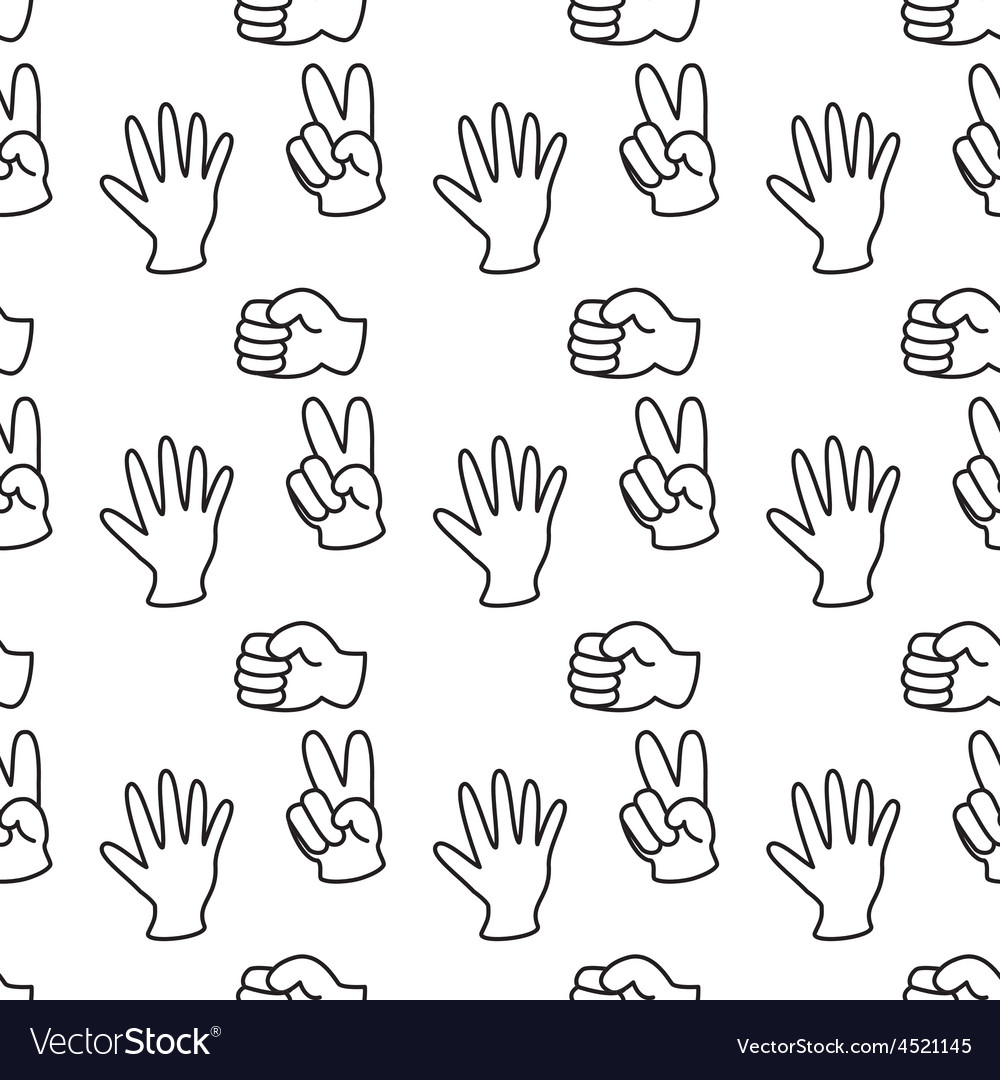
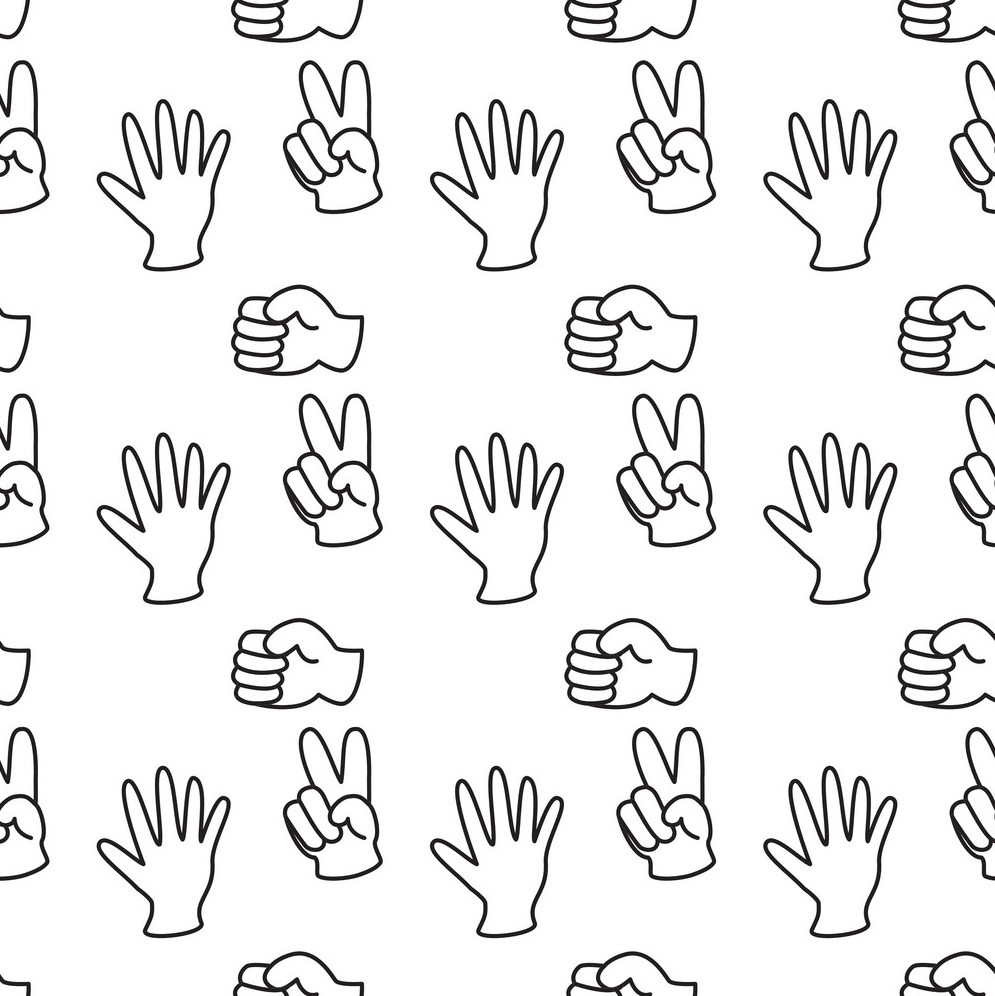
podium almost done only third place colours left

diff --git a/rps-app/src/Components/WinnerPage/Podium/Podium.js b/rps-app/src/Components/WinnerPage/Podium/Podium.js
@@ -1,6 +1,5 @@
 import React from "react";
-import { First } from "react-bootstrap/esm/PageItem";
-import podium from "./podium.css";
+import "./podium.css";
 
 class Podium extends React.Component {
   constructor(props) {
@@ -12,18 +11,10 @@ class Podium extends React.Component {
       secondPlaceColour: "",
       thirdPlaceName: "",
       thirdPlaceColour: "",
+      alsoThirdPlaceName: "",
+      alsoThirdPlaceColour: "",
     };
   }
-  checkForWin = (rounds) => {
-    const finals = rounds[rounds.length - 1].seeds[0];
-    if (finals.score[0] !== 0 || finals.score[1] !== 0) {
-      const winner =
-        finals.score[0] > finals.score[1]
-          ? finals.teams[0].name
-          : finals.teams[1].name;
-      this.setState({ winner: winner });
-    }
-  };
 
   podiumRanksOneAndTwo = (rounds) => {
     const finals = rounds[rounds.length - 1].seeds[0];
@@ -46,6 +37,40 @@ class Podium extends React.Component {
     }
   };
 
+  podiumRankThree = (rounds) => {
+    const semiFinals = rounds[rounds.length - 2].seeds[0];
+    if (semiFinals.score[0] !== 0 || semiFinals.score[1] !== 0) {
+      if (semiFinals.score[0] > semiFinals.score[1]) {
+        this.setState({
+          thirdPlaceName: semiFinals.teams[0].name,
+          thirdPlaceColour: semiFinals.team[0].bgColor,
+        });
+      } else {
+        this.setState({
+          thirdPlaceName: semiFinals.teams[1].name,
+          thirdPlaceColour: semiFinals.team[1].bgColor,
+        });
+      }
+    }
+
+    alsoPodiumRankThree = (rounds) => {
+      const semiFinals = rounds[rounds.length - 2].seeds[1];
+      if (semiFinals.score[0] !== 0 || semiFinals.score[1] !== 0) {
+        if (semiFinals.score[0] > semiFinals.score[1]) {
+          this.setState({
+            alsoThirdPlaceName: semiFinals.teams[0].name,
+            alsoThirdPlaceColour: semiFinals.team[0].bgColor,
+          });
+        } else {
+          this.setState({
+            alsoThirdPlaceName: semiFinals.teams[1].name,
+            alsoThirdPlaceColour: semiFinals.team[1].bgColor,
+          });
+        }
+      }
+    };
+  };
+
   render() {
     return (
       <div class="container podium">
@@ -53,7 +78,7 @@ class Podium extends React.Component {
           <p class="podium__city">{this.state.secondPlaceName}</p>
           <div
             class="podium__rank second"
-            style={{ backgroundColor: this.state.secon }}
+            style={{ backgroundColor: this.state.secondPlaceColour }}
           >
             2
           </div>
@@ -62,14 +87,15 @@ class Podium extends React.Component {
           <p class="podium__city"> {this.state.firstPlaceName}</p>
           <div
             className="podium__rank first"
-            // key={i}
             style={{ backgroundColor: this.state.firstPlaceColour }}
           >
             1
           </div>
         </div>
         <div class="podium__item">
-          <p class="podium__city">Clermont-Ferrand Essentielle</p>
+          <p class="podium__city">
+            {this.state.thirdPlaceName} <br /> {this.state.alsoThirdPlaceName}
+          </p>
           <div class="podium__rank third">3</div>
         </div>
       </div>

diff --git a/rps-app/src/App.css b/rps-app/src/App.css
@@ -1,7 +1,7 @@
 body {
-  background-image: url("bg3.png");
-  background-size: cover;
-  background-repeat: no-repeat;
+  background-image: url("bg6.jpeg");
+  background-repeat: repeat;
+  background-size: 20%;
   background-color: black;
   font-family: "Gill Sans", "Gill Sans MT", Calibri, "Trebuchet MS", sans-serif;
 }
